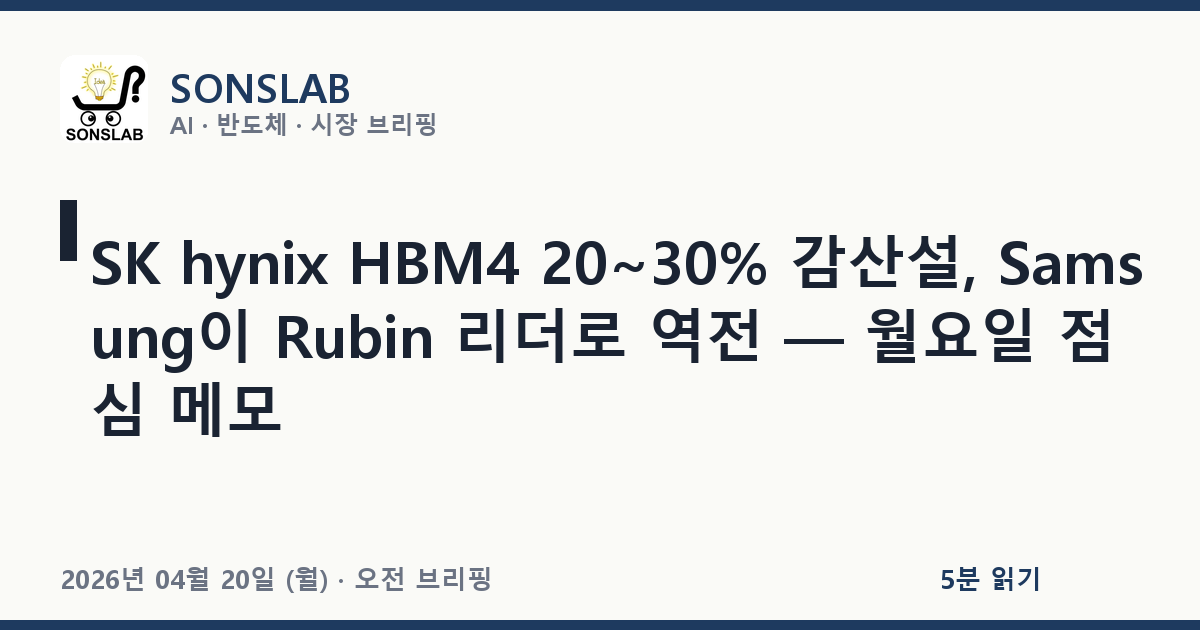
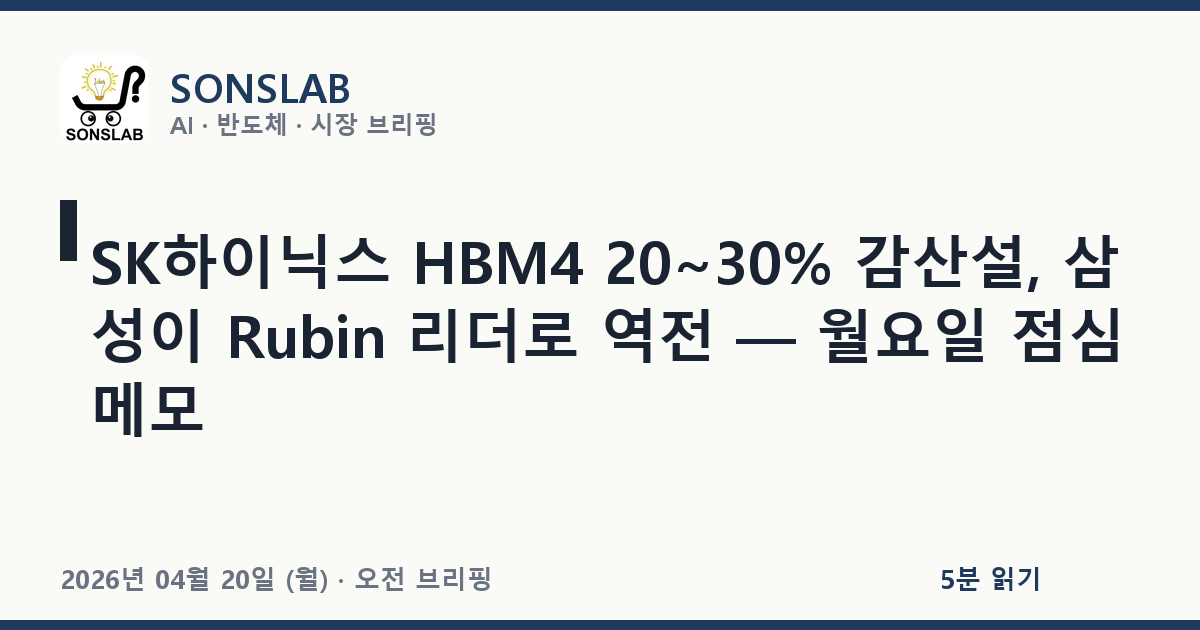
Update: 2026-04-20 18:41

Changed region(s): [[0.0617, 0.3619, 0.9558, 0.6937]]

diff --git a/posts/2026-04-20-pm12-ai-tech-news.html b/posts/2026-04-20-pm12-ai-tech-news.html
@@ -3,7 +3,7 @@
 <head>
     <meta charset="UTF-8">
     <meta name="viewport" content="width=device-width, initial-scale=1.0">
-    <title>SK hynix HBM4 20~30% 감산설, Samsung이 Rubin 리더로 역전 — 월요일 점심 메모 — SONSLAB</title>
+    <title>SK하이닉스 HBM4 20~30% 감산설, 삼성이 Rubin 리더로 역전 — 월요일 점심 메모 — SONSLAB</title>
     <link rel="icon" href="../assets/logo.jpg">
     <link rel="alternate" type="application/atom+xml" title="SONSLAB Feed" href="../feed.xml">
     <link rel="preconnect" href="https://fonts.googleapis.com">
@@ -11,19 +11,19 @@
     <link href="https://cdn.jsdelivr.net/gh/orioncactus/pretendard@v1.3.9/dist/web/variable/pretendardvariable-dynamic-subset.min.css" rel="stylesheet">
     <link href="https://fonts.googleapis.com/css2?family=Noto+Serif+KR:wght@400;500;600;700;900&family=Source+Serif+4:ital,wght@0,400;0,600;0,700;1,400&display=swap" rel="stylesheet">
     <link rel="stylesheet" href="../assets/style.css">
-    <meta name="description" content="점심 먹고 자리로 들어왔다. 오전에 새벽 포스트로 Sandisk Nasdaq-100 편입이랑 Tesla 수요일 콜 Terafab 각도를 짚어둔 상태라, 여기서는 오늘 오전 KOSPI에서도 종일 얘기 도는 메모리 공급망 재편 쪽 한 줄기만 정리해두고 간다.">
+    <meta name="description" content="점심 먹고 자리로 들어왔다. 오전에 새벽 포스트로 샌디스크 나스닥-100 편입이랑 테슬라 수요일 콜 Terafab 각도를 짚어둔 상태라, 여기서는 오늘 오전 KOSPI에서도 종일 얘기 도는 메모리 공급망 재편 쪽 한 줄기만 정리해두고 간다.">
     <meta name="author" content="SONSLAB">
     <link rel="canonical" href="https://shonsubong.github.io/sonslab-blog/posts/2026-04-20-pm12-ai-tech-news.html">
     <meta property="og:site_name" content="SONSLAB">
     <meta property="og:type" content="article">
-    <meta property="og:title" content="SK hynix HBM4 20~30% 감산설, Samsung이 Rubin 리더로 역전 — 월요일 점심 메모">
-    <meta property="og:description" content="점심 먹고 자리로 들어왔다. 오전에 새벽 포스트로 Sandisk Nasdaq-100 편입이랑 Tesla 수요일 콜 Terafab 각도를 짚어둔 상태라, 여기서는 오늘 오전 KOSPI에서도 종일 얘기 도는 메모리 공급망 재편 쪽 한 줄기만 정리해두고 간다.">
+    <meta property="og:title" content="SK하이닉스 HBM4 20~30% 감산설, 삼성이 Rubin 리더로 역전 — 월요일 점심 메모">
+    <meta property="og:description" content="점심 먹고 자리로 들어왔다. 오전에 새벽 포스트로 샌디스크 나스닥-100 편입이랑 테슬라 수요일 콜 Terafab 각도를 짚어둔 상태라, 여기서는 오늘 오전 KOSPI에서도 종일 얘기 도는 메모리 공급망 재편 쪽 한 줄기만 정리해두고 간다.">
     <meta property="og:url" content="https://shonsubong.github.io/sonslab-blog/posts/2026-04-20-pm12-ai-tech-news.html">
     <meta property="og:image" content="https://shonsubong.github.io/sonslab-blog/assets/og/2026-04-20-pm12-ai-tech-news.png">
     <meta property="og:locale" content="ko_KR">
     <meta name="twitter:card" content="summary_large_image">
-    <meta name="twitter:title" content="SK hynix HBM4 20~30% 감산설, Samsung이 Rubin 리더로 역전 — 월요일 점심 메모">
-    <meta name="twitter:description" content="점심 먹고 자리로 들어왔다. 오전에 새벽 포스트로 Sandisk Nasdaq-100 편입이랑 Tesla 수요일 콜 Terafab 각도를 짚어둔 상태라, 여기서는 오늘 오전 KOSPI에서도 종일 얘기 도는 메모리 공급망 재편 쪽 한 줄기만 정리해두고 간다.">
+    <meta name="twitter:title" content="SK하이닉스 HBM4 20~30% 감산설, 삼성이 Rubin 리더로 역전 — 월요일 점심 메모">
+    <meta name="twitter:description" content="점심 먹고 자리로 들어왔다. 오전에 새벽 포스트로 샌디스크 나스닥-100 편입이랑 테슬라 수요일 콜 Terafab 각도를 짚어둔 상태라, 여기서는 오늘 오전 KOSPI에서도 종일 얘기 도는 메모리 공급망 재편 쪽 한 줄기만 정리해두고 간다.">
     <meta name="twitter:image" content="https://shonsubong.github.io/sonslab-blog/assets/og/2026-04-20-pm12-ai-tech-news.png">
     <meta property="article:published_time" content="2026-04-20T12:18:00+09:00">
     <meta property="article:modified_time" content="2026-04-20T12:18:00+09:00">
@@ -56,8 +56,8 @@
     } catch (e) {}
 })();
 </script>
-    <script type="application/ld+json">{"@context": "https://schema.org", "@type": "BlogPosting", "headline": "SK hynix HBM4 20~30% 감산설, Samsung이 Rubin 리더로 역전 — 월요일 점심 메모", "description": "점심 먹고 자리로 들어왔다. 오전에 새벽 포스트로 Sandisk Nasdaq-100 편입이랑 Tesla 수요일 콜 Terafab 각도를 짚어둔 상태라, 여기서는 오늘 오전 KOSPI에서도 종일 얘기 도는 메모리 공급망 재편 쪽 한 줄기만 정리해두고 간다.", "url": "https://shonsubong.github.io/sonslab-blog/posts/2026-04-20-pm12-ai-tech-news.html", "mainEntityOfPage": "https://shonsubong.github.io/sonslab-blog/posts/2026-04-20-pm12-ai-tech-news.html", "inLanguage": "ko", "image": "https://shonsubong.github.io/sonslab-blog/assets/og/2026-04-20-pm12-ai-tech-news.png", "author": {"@type": "Person", "name": "SONSLAB"}, "publisher": {"@type": "Organization", "name": "SONSLAB", "logo": {"@type": "ImageObject", "url": "https://shonsubong.github.io/sonslab-blog/assets/logo.jpg"}}, "datePublished": "2026-04-20T12:18:00+09:00", "dateModified": "2026-04-20T12:18:00+09:00"}</script>
-    <script type="application/ld+json">{"@context": "https://schema.org", "@type": "BreadcrumbList", "itemListElement": [{"@type": "ListItem", "position": 1, "name": "SONSLAB", "item": "https://shonsubong.github.io/sonslab-blog/"}, {"@type": "ListItem", "position": 2, "name": "글", "item": "https://shonsubong.github.io/sonslab-blog/#posts"}, {"@type": "ListItem", "position": 3, "name": "SK hynix HBM4 20~30% 감산설, Samsung이 Rubin 리더로 역전 — 월요일 점심 메모", "item": "https://shonsubong.github.io/sonslab-blog/posts/2026-04-20-pm12-ai-tech-news.html"}]}</script>
+    <script type="application/ld+json">{"@context": "https://schema.org", "@type": "BlogPosting", "headline": "SK하이닉스 HBM4 20~30% 감산설, 삼성이 Rubin 리더로 역전 — 월요일 점심 메모", "description": "점심 먹고 자리로 들어왔다. 오전에 새벽 포스트로 샌디스크 나스닥-100 편입이랑 테슬라 수요일 콜 Terafab 각도를 짚어둔 상태라, 여기서는 오늘 오전 KOSPI에서도 종일 얘기 도는 메모리 공급망 재편 쪽 한 줄기만 정리해두고 간다.", "url": "https://shonsubong.github.io/sonslab-blog/posts/2026-04-20-pm12-ai-tech-news.html", "mainEntityOfPage": "https://shonsubong.github.io/sonslab-blog/posts/2026-04-20-pm12-ai-tech-news.html", "inLanguage": "ko", "image": "https://shonsubong.github.io/sonslab-blog/assets/og/2026-04-20-pm12-ai-tech-news.png", "author": {"@type": "Person", "name": "SONSLAB"}, "publisher": {"@type": "Organization", "name": "SONSLAB", "logo": {"@type": "ImageObject", "url": "https://shonsubong.github.io/sonslab-blog/assets/logo.jpg"}}, "datePublished": "2026-04-20T12:18:00+09:00", "dateModified": "2026-04-20T12:18:00+09:00"}</script>
+    <script type="application/ld+json">{"@context": "https://schema.org", "@type": "BreadcrumbList", "itemListElement": [{"@type": "ListItem", "position": 1, "name": "SONSLAB", "item": "https://shonsubong.github.io/sonslab-blog/"}, {"@type": "ListItem", "position": 2, "name": "글", "item": "https://shonsubong.github.io/sonslab-blog/#posts"}, {"@type": "ListItem", "position": 3, "name": "SK하이닉스 HBM4 20~30% 감산설, 삼성이 Rubin 리더로 역전 — 월요일 점심 메모", "item": "https://shonsubong.github.io/sonslab-blog/posts/2026-04-20-pm12-ai-tech-news.html"}]}</script>
 </head>
 <body class="post-page">
     <div class="reading-progress" id="reading-progress" role="progressbar" aria-label="읽기 진행률"></div>
@@ -101,7 +101,7 @@
 <article class="post-article">
     <div class="post-header">
         <a href="../index.html" class="back-link">← 전체 글 목록</a>
-        <h1>SK hynix HBM4 20~30% 감산설, Samsung이 Rubin 리더로 역전 — 월요일 점심 메모</h1>
+        <h1>SK하이닉스 HBM4 20~30% 감산설, 삼성이 Rubin 리더로 역전 — 월요일 점심 메모</h1>
         <div class="post-meta">
             <span class="time-label">오전 브리핑</span>
             <span>2026년 04월 20일 (월) · 12:18</span>
@@ -117,8 +117,8 @@
     <details class="post-toc" open><summary>목차</summary><div class="toc">
 <div class="toc">
 <ul>
-<li><a href="#sk-hynix-hbm4-2030-samsung-rubin">SK hynix HBM4 20~30% 감산설, Samsung이 Rubin 리더로 역전 — 월요일 점심 메모</a><ul>
-<li><a href="#sk-hynix-hbm4-2030-samsung">SK hynix가 HBM4 샤핑을 20~30% 줄인다는 얘기, 그리고 Samsung의 반전</a></li>
+<li><a href="#sk-hbm4-2030-rubin">SK하이닉스 HBM4 20~30% 감산설, 삼성이 Rubin 리더로 역전 — 월요일 점심 메모</a><ul>
+<li><a href="#sk-hbm4-2030">SK하이닉스가 HBM4 출하를 20~30% 줄인다는 얘기, 그리고 삼성의 반전</a></li>
 </ul>
 </li>
 </ul>
@@ -127,13 +127,13 @@
 </div>
 </details>
     <div class="post-content">
-<h1 id="sk-hynix-hbm4-2030-samsung-rubin">SK hynix HBM4 20~30% 감산설, Samsung이 Rubin 리더로 역전 — 월요일 점심 메모</h1>
-<p>점심 먹고 자리로 들어왔다. 오전에 새벽 포스트로 Sandisk Nasdaq-100 편입이랑 Tesla 수요일 콜 Terafab 각도를 짚어둔 상태라, 여기서는 오늘 오전 KOSPI에서도 종일 얘기 도는 <strong>메모리 공급망 재편</strong> 쪽 한 줄기만 정리해두고 간다.</p>
+<h1 id="sk-hbm4-2030-rubin">SK하이닉스 HBM4 20~30% 감산설, 삼성이 Rubin 리더로 역전 — 월요일 점심 메모</h1>
+<p>점심 먹고 자리로 들어왔다. 오전에 새벽 포스트로 샌디스크 나스닥-100 편입이랑 테슬라 수요일 콜 Terafab 각도를 짚어둔 상태라, 여기서는 오늘 오전 KOSPI에서도 종일 얘기 도는 <strong>메모리 공급망 재편</strong> 쪽 한 줄기만 정리해두고 간다.</p>
 <hr />
-<h2 id="sk-hynix-hbm4-2030-samsung">SK hynix가 HBM4 샤핑을 20~30% 줄인다는 얘기, 그리고 Samsung의 반전</h2>
+<h2 id="sk-hbm4-2030">SK하이닉스가 HBM4 출하를 20~30% 줄인다는 얘기, 그리고 삼성의 반전</h2>
 <p>지난주(4/15) <a href="https://www.trendforce.com/news/2026/04/15/news-hbm4-strategies-diverge-samsung-reportedly-chases-80-1c-dram-yield-while-sk-hynix-trims-shipments-by-30/">TrendForce 리포트</a>와 뒤이은 <a href="https://www.digitimes.com/news/a20260415VL210/sk-hynix-hbm4-shipments-nvidia-rubin.html">Digitimes 보도</a>가 한 덩어리로 붙어서 돈다. 핵심은 두 가지:</p>
 <ol>
-<li><strong>SK hynix가 2026년 HBM4 대(對) Nvidia 출하 계획을 20~30% 하향 검토 중</strong> — 이유는 Nvidia <strong>Rubin</strong> 램프 지연. SK hynix가 HBM4 base die를 리스핀(respin)해야 했다는 게 <a href="https://www.sdxcentral.com/news/sk-hynix-memory-production-delay-impact-could-impact-nvidia-rubin-release-report/">SDxCentral</a> 정리의 톤이고, 원 스케줄이었다면 SK hynix가 Rubin 초도 공급 리드 포지션이었는데 그 자리가 흔들리고 있다는 거다.</li>
+<li><strong>SK하이닉스가 2026년 HBM4 대(對) Nvidia 출하 계획을 20~30% 하향 검토 중</strong> — 이유는 Nvidia <strong>Rubin</strong> 램프 지연. SK하이닉스가 HBM4 base die를 리스핀(respin)해야 했다는 게 <a href="https://www.sdxcentral.com/news/sk-hynix-memory-production-delay-impact-could-impact-nvidia-rubin-release-report/">SDxCentral</a> 정리의 톤이고, 원 스케줄이었다면 SK하이닉스가 Rubin 초도 공급 리드 포지션이었는데 그 자리가 흔들리고 있다는 거다.</li>
 <li><strong>Samsung이 1c DRAM 수율 80% 목표로 Rubin 공급 리더 역전을 노린다</strong> — Samsung은 HBM4용 1c DRAM 수율이 60% 이하로 추정되는 상태에서 하반기 안에 근(near)-성숙 수준까지 끌어올리겠다는 목표를 잡고 있다. Samsung이 HBM4 로직 다이 가격을 연초 대비 40~50% 올렸다는 얘기도 같이 도는데(역시 TrendForce), 이건 "공급 쪽에서 가격 주도권을 다시 잡았다"는 신호로 본다.</li>
 </ol>
 <p>모든 "~한다더라" 숫자는 아직 공식 IR 발표가 아니고 리포트·업계 소스 기반이니 확정은 아니다. 다만 이번 주 수요일(4/23) SK hynix Q1 어닝 콜이 잡혀 있어서 — <a href="https://finance.yahoo.com/quote/000660.KS/">Yahoo Finance 기록</a> 기준 — 적어도 CapEx 톤이랑 HBM 가이던스 문장에서 이 이야기의 실제 각도가 얼마나 드러나는지 짚어볼 수 있다. Nvidia 쪽은 <a href="https://www.tomshardware.com/tech-industry/hbm4-mass-production-delayed-as-nvidia-pushes-memory-specs-higher">Tom's Hardware 정리</a>에서 이미 "Rubin 연기 주장은 사실이 아니다"라고 공개적으로 반박 중이라, 같은 사실을 놓고 공급망 A/B 사이드 진술이 정반대로 갈리는 진풍경이 벌어지고 있다.</p>
@@ -146,7 +146,7 @@
     
 <div class="post-share">
     <span class="share-label">공유하기</span>
-    <a href="https://twitter.com/intent/tweet?text=SK hynix HBM4 20~30% 감산설, Samsung이 Rubin 리더로 역전 — 월요일 점심 메모&url=https://shonsubong.github.io/sonslab-blog/posts/2026-04-20-pm12-ai-tech-news.html"
+    <a href="https://twitter.com/intent/tweet?text=SK하이닉스 HBM4 20~30% 감산설, 삼성이 Rubin 리더로 역전 — 월요일 점심 메모&url=https://shonsubong.github.io/sonslab-blog/posts/2026-04-20-pm12-ai-tech-news.html"
        class="share-btn" target="_blank" rel="noopener" aria-label="X(Twitter)에 공유">
         <span>X</span>
     </a>

diff --git a/index.html b/index.html
@@ -162,7 +162,7 @@
                 <tr class="live">
                     <td class="td-time">12:18</td>
                     <td class="td-kind">오전 브리핑</td>
-                    <td class="td-title"><a href="posts/2026-04-20-pm12-ai-tech-news.html">SK hynix HBM4 20~30% 감산설, Samsung이 Rubin 리더로 역전 — 월요일 점심 메모</a></td>
+                    <td class="td-title"><a href="posts/2026-04-20-pm12-ai-tech-news.html">SK하이닉스 HBM4 20~30% 감산설, 삼성이 Rubin 리더로 역전 — 월요일 점심 메모</a></td>
                     <td class="td-read">5분</td>
                 </tr>
                 <tr class="live">
@@ -199,7 +199,7 @@
             
         <article class="hero-lede is-sub" data-only="editorial">
             <div class="lede-kind">오전 브리핑</div>
-            <h1 class="lede-title"><a href="posts/2026-04-20-pm12-ai-tech-news.html">SK hynix HBM4 20~30% 감산설, Samsung이 Rubin 리더로 역전</a></h1>
+            <h1 class="lede-title"><a href="posts/2026-04-20-pm12-ai-tech-news.html">SK하이닉스 HBM4 20~30% 감산설, 삼성이 Rubin 리더로 역전</a></h1>
             <div class="lede-dek">월요일 점심 메모</div>
             
             <div class="lede-byline">
@@ -227,7 +227,7 @@
                 <div class="side-hour">12</div>
                 <div class="side-body">
                     <div class="side-kind">오전</div>
-                    <div class="side-title"><a href="posts/2026-04-20-pm12-ai-tech-news.html">SK hynix HBM4 20~30% 감산설, Samsung이 Rubin 리더로 역전 — 월요일 점심 메모</a></div>
+                    <div class="side-title"><a href="posts/2026-04-20-pm12-ai-tech-news.html">SK하이닉스 HBM4 20~30% 감산설, 삼성이 Rubin 리더로 역전 — 월요일 점심 메모</a></div>
                 </div>
             </div>
             <div class="side-today-row">
@@ -306,7 +306,7 @@
                     <div class="sched-kind">오전 브리핑</div>
                 </div>
                 <div class="sched-body">
-                    <div class="sched-title"><a href="posts/2026-04-20-pm12-ai-tech-news.html">SK hynix HBM4 20~30% 감산설, Samsung이 Rubin 리더로 역전 — 월요일 점심 메모</a></div>
+                    <div class="sched-title"><a href="posts/2026-04-20-pm12-ai-tech-news.html">SK하이닉스 HBM4 20~30% 감산설, 삼성이 Rubin 리더로 역전 — 월요일 점심 메모</a></div>
                     <div class="sched-status">● 발행됨 · 5분</div>
                 </div>
             </div>
@@ -420,15 +420,15 @@
             <p class="lead">퇴근 준비하면서 화면 한 번 정리한다. 오늘 점심에 쓴 건 SK hynix HBM4 샤핑 조정·Samsung 1c DRAM 수율 서사였고, 새벽에는 Sandisk Nasdaq-100 편입이랑 Tesla 수요일 콜의 Terafab 각도를 짚어뒀다. 오후 들어서 판이 다시 한 번 변수 하나 집어삼켰다 — Hormuz 재봉쇄가 풀릴 듯 다시 조여들면서 유가가 올라왔고, 아시아장 내내 이 변수가 깔...</p>
             <a href="posts/2026-04-20-pm17-ai-tech-news.html" class="read-more">계속 읽기 →</a>
         </article>
-        <article class="post-item" data-time="오전 브리핑" data-topics="반도체|AI 모델|빅테크/시장" data-search="sk hynix hbm4 20~30% 감산설, samsung이 rubin 리더로 역전 — 월요일 점심 메모 점심 먹고 자리로 들어왔다. 오전에 새벽 포스트로 sandisk nasdaq-100 편입이랑 tesla 수요일 콜 terafab 각도를 짚어둔 상태라, 여기서는 오늘 오전 kospi에서도 종일 얘기 도는 메모리 공급망 재편 쪽 한 줄기만 정리해두고 간다. 반도체 ai 모델 빅테크/시장">
+        <article class="post-item" data-time="오전 브리핑" data-topics="반도체|AI 모델|빅테크/시장" data-search="sk하이닉스 hbm4 20~30% 감산설, 삼성이 rubin 리더로 역전 — 월요일 점심 메모 점심 먹고 자리로 들어왔다. 오전에 새벽 포스트로 샌디스크 나스닥-100 편입이랑 테슬라 수요일 콜 terafab 각도를 짚어둔 상태라, 여기서는 오늘 오전 kospi에서도 종일 얘기 도는 메모리 공급망 재편 쪽 한 줄기만 정리해두고 간다. 반도체 ai 모델 빅테크/시장">
             <div class="post-meta">
                 <span class="time-label">오전 브리핑</span>
                 <span>·</span>
                 <time>12:18</time><span>·</span>
                 <span>5분 읽기</span>
             </div>
-            <h2><a href="posts/2026-04-20-pm12-ai-tech-news.html">SK hynix HBM4 20~30% 감산설, Samsung이 Rubin 리더로 역전 — 월요일 점심 메모</a></h2>
-            <p class="lead">점심 먹고 자리로 들어왔다. 오전에 새벽 포스트로 Sandisk Nasdaq-100 편입이랑 Tesla 수요일 콜 Terafab 각도를 짚어둔 상태라, 여기서는 오늘 오전 KOSPI에서도 종일 얘기 도는 메모리 공급망 재편 쪽 한 줄기만 정리해두고 간다.</p>
+            <h2><a href="posts/2026-04-20-pm12-ai-tech-news.html">SK하이닉스 HBM4 20~30% 감산설, 삼성이 Rubin 리더로 역전 — 월요일 점심 메모</a></h2>
+            <p class="lead">점심 먹고 자리로 들어왔다. 오전에 새벽 포스트로 샌디스크 나스닥-100 편입이랑 테슬라 수요일 콜 Terafab 각도를 짚어둔 상태라, 여기서는 오늘 오전 KOSPI에서도 종일 얘기 도는 메모리 공급망 재편 쪽 한 줄기만 정리해두고 간다.</p>
             <a href="posts/2026-04-20-pm12-ai-tech-news.html" class="read-more">계속 읽기 →</a>
         </article>
         <article class="post-item" data-time="새벽 리포트" data-topics="반도체|빅테크/시장|투자/매크로" data-search="샌디스크 나스닥-100 입성(4/20)·1년 +2,700%, 테슬라 terafab이 콜의 진짜 초점 — 월요일 새벽 메모 월요일 새벽, 미국장은 이따 열린다. 주말 내내 쓰인 얘기들을 월요일 아침에 다시 꺼내는 건 피하고 싶어서, 오늘 장 열리기 전까지 오늘 실제로 새로 벌어지는 일 두 개만 짚고 출근 준비한다. 반도체 빅테크/시장 투자/매크로">

diff --git a/posts/COWORK_AUTOBUILD_SETUP.html b/posts/COWORK_AUTOBUILD_SETUP.html
@@ -525,7 +525,7 @@ powershell -NoProfile -ExecutionPolicy Bypass -File &quot;X:\Work_Agent\sonslab-
     
 <section class="related-posts" aria-label="최근 다른 리포트">
     <div class="related-posts-label">최근 다른 리포트</div>
-    <ul class="related-list"><li><a href="2026-04-20-pm17-ai-tech-news.html"><span class="related-title">Hormuz 재봉쇄로 Brent $95·WTI $87, 이번 주 Tesla(4/22)·SK hynix·Intel(4/23) 삼중 콜 — 월요일 오후 메모</span><span class="related-date">2026-04-20 · 오후 브리핑 · 17:16</span></a></li><li><a href="2026-04-20-pm12-ai-tech-news.html"><span class="related-title">SK hynix HBM4 20~30% 감산설, Samsung이 Rubin 리더로 역전 — 월요일 점심 메모</span><span class="related-date">2026-04-20 · 오전 브리핑 · 12:18</span></a></li><li><a href="2026-04-20-am06-ai-tech-news.html"><span class="related-title">샌디스크 나스닥-100 입성(4/20)·1년 +2,700%, 테슬라 Terafab이 콜의 진짜 초점 — 월요일 새벽 메모</span><span class="related-date">2026-04-20 · 새벽 리포트 · 06:12</span></a></li><li><a href="2026-04-19-pm22-ai-tech-news.html"><span class="related-title">Opus 4.7 벤치 정리, 알리바바 자체 칩 1만 개 데이터센터 — 주말 마감 메모</span><span class="related-date">2026-04-19 · 저녁 마감 · 22:18</span></a></li><li><a href="2026-04-19-pm17-ai-tech-news.html"><span class="related-title">테슬라 실적 3일 전 — 로보택시 3개 도시, 옵티머스 3세대 지연 속 전망</span><span class="related-date">2026-04-19 · 오후 브리핑 · 17:14</span></a></li></ul>
+    <ul class="related-list"><li><a href="2026-04-20-pm17-ai-tech-news.html"><span class="related-title">Hormuz 재봉쇄로 Brent $95·WTI $87, 이번 주 Tesla(4/22)·SK hynix·Intel(4/23) 삼중 콜 — 월요일 오후 메모</span><span class="related-date">2026-04-20 · 오후 브리핑 · 17:16</span></a></li><li><a href="2026-04-20-pm12-ai-tech-news.html"><span class="related-title">SK하이닉스 HBM4 20~30% 감산설, 삼성이 Rubin 리더로 역전 — 월요일 점심 메모</span><span class="related-date">2026-04-20 · 오전 브리핑 · 12:18</span></a></li><li><a href="2026-04-20-am06-ai-tech-news.html"><span class="related-title">샌디스크 나스닥-100 입성(4/20)·1년 +2,700%, 테슬라 Terafab이 콜의 진짜 초점 — 월요일 새벽 메모</span><span class="related-date">2026-04-20 · 새벽 리포트 · 06:12</span></a></li><li><a href="2026-04-19-pm22-ai-tech-news.html"><span class="related-title">Opus 4.7 벤치 정리, 알리바바 자체 칩 1만 개 데이터센터 — 주말 마감 메모</span><span class="related-date">2026-04-19 · 저녁 마감 · 22:18</span></a></li><li><a href="2026-04-19-pm17-ai-tech-news.html"><span class="related-title">테슬라 실적 3일 전 — 로보택시 3개 도시, 옵티머스 3세대 지연 속 전망</span><span class="related-date">2026-04-19 · 오후 브리핑 · 17:14</span></a></li></ul>
 </section>
 </article>
 

diff --git a/posts/2025-12-01-pm21-ai-tech-news.html b/posts/2025-12-01-pm21-ai-tech-news.html
@@ -198,7 +198,7 @@
     
 <section class="related-posts" aria-label="최근 다른 리포트">
     <div class="related-posts-label">최근 다른 리포트</div>
-    <ul class="related-list"><li><a href="2026-04-20-pm17-ai-tech-news.html"><span class="related-title">Hormuz 재봉쇄로 Brent $95·WTI $87, 이번 주 Tesla(4/22)·SK hynix·Intel(4/23) 삼중 콜 — 월요일 오후 메모</span><span class="related-date">2026-04-20 · 오후 브리핑 · 17:16</span></a></li><li><a href="2026-04-20-pm12-ai-tech-news.html"><span class="related-title">SK hynix HBM4 20~30% 감산설, Samsung이 Rubin 리더로 역전 — 월요일 점심 메모</span><span class="related-date">2026-04-20 · 오전 브리핑 · 12:18</span></a></li><li><a href="2026-04-20-am06-ai-tech-news.html"><span class="related-title">샌디스크 나스닥-100 입성(4/20)·1년 +2,700%, 테슬라 Terafab이 콜의 진짜 초점 — 월요일 새벽 메모</span><span class="related-date">2026-04-20 · 새벽 리포트 · 06:12</span></a></li><li><a href="2026-04-19-pm22-ai-tech-news.html"><span class="related-title">Opus 4.7 벤치 정리, 알리바바 자체 칩 1만 개 데이터센터 — 주말 마감 메모</span><span class="related-date">2026-04-19 · 저녁 마감 · 22:18</span></a></li><li><a href="2026-04-19-pm17-ai-tech-news.html"><span class="related-title">테슬라 실적 3일 전 — 로보택시 3개 도시, 옵티머스 3세대 지연 속 전망</span><span class="related-date">2026-04-19 · 오후 브리핑 · 17:14</span></a></li></ul>
+    <ul class="related-list"><li><a href="2026-04-20-pm17-ai-tech-news.html"><span class="related-title">Hormuz 재봉쇄로 Brent $95·WTI $87, 이번 주 Tesla(4/22)·SK hynix·Intel(4/23) 삼중 콜 — 월요일 오후 메모</span><span class="related-date">2026-04-20 · 오후 브리핑 · 17:16</span></a></li><li><a href="2026-04-20-pm12-ai-tech-news.html"><span class="related-title">SK하이닉스 HBM4 20~30% 감산설, 삼성이 Rubin 리더로 역전 — 월요일 점심 메모</span><span class="related-date">2026-04-20 · 오전 브리핑 · 12:18</span></a></li><li><a href="2026-04-20-am06-ai-tech-news.html"><span class="related-title">샌디스크 나스닥-100 입성(4/20)·1년 +2,700%, 테슬라 Terafab이 콜의 진짜 초점 — 월요일 새벽 메모</span><span class="related-date">2026-04-20 · 새벽 리포트 · 06:12</span></a></li><li><a href="2026-04-19-pm22-ai-tech-news.html"><span class="related-title">Opus 4.7 벤치 정리, 알리바바 자체 칩 1만 개 데이터센터 — 주말 마감 메모</span><span class="related-date">2026-04-19 · 저녁 마감 · 22:18</span></a></li><li><a href="2026-04-19-pm17-ai-tech-news.html"><span class="related-title">테슬라 실적 3일 전 — 로보택시 3개 도시, 옵티머스 3세대 지연 속 전망</span><span class="related-date">2026-04-19 · 오후 브리핑 · 17:14</span></a></li></ul>
 </section>
 </article>
 

diff --git a/posts/2025-12-06-pm21-ai-tech-news.html b/posts/2025-12-06-pm21-ai-tech-news.html
@@ -173,7 +173,7 @@
     
 <section class="related-posts" aria-label="최근 다른 리포트">
     <div class="related-posts-label">최근 다른 리포트</div>
-    <ul class="related-list"><li><a href="2026-04-20-pm17-ai-tech-news.html"><span class="related-title">Hormuz 재봉쇄로 Brent $95·WTI $87, 이번 주 Tesla(4/22)·SK hynix·Intel(4/23) 삼중 콜 — 월요일 오후 메모</span><span class="related-date">2026-04-20 · 오후 브리핑 · 17:16</span></a></li><li><a href="2026-04-20-pm12-ai-tech-news.html"><span class="related-title">SK hynix HBM4 20~30% 감산설, Samsung이 Rubin 리더로 역전 — 월요일 점심 메모</span><span class="related-date">2026-04-20 · 오전 브리핑 · 12:18</span></a></li><li><a href="2026-04-20-am06-ai-tech-news.html"><span class="related-title">샌디스크 나스닥-100 입성(4/20)·1년 +2,700%, 테슬라 Terafab이 콜의 진짜 초점 — 월요일 새벽 메모</span><span class="related-date">2026-04-20 · 새벽 리포트 · 06:12</span></a></li><li><a href="2026-04-19-pm22-ai-tech-news.html"><span class="related-title">Opus 4.7 벤치 정리, 알리바바 자체 칩 1만 개 데이터센터 — 주말 마감 메모</span><span class="related-date">2026-04-19 · 저녁 마감 · 22:18</span></a></li><li><a href="2026-04-19-pm17-ai-tech-news.html"><span class="related-title">테슬라 실적 3일 전 — 로보택시 3개 도시, 옵티머스 3세대 지연 속 전망</span><span class="related-date">2026-04-19 · 오후 브리핑 · 17:14</span></a></li></ul>
+    <ul class="related-list"><li><a href="2026-04-20-pm17-ai-tech-news.html"><span class="related-title">Hormuz 재봉쇄로 Brent $95·WTI $87, 이번 주 Tesla(4/22)·SK hynix·Intel(4/23) 삼중 콜 — 월요일 오후 메모</span><span class="related-date">2026-04-20 · 오후 브리핑 · 17:16</span></a></li><li><a href="2026-04-20-pm12-ai-tech-news.html"><span class="related-title">SK하이닉스 HBM4 20~30% 감산설, 삼성이 Rubin 리더로 역전 — 월요일 점심 메모</span><span class="related-date">2026-04-20 · 오전 브리핑 · 12:18</span></a></li><li><a href="2026-04-20-am06-ai-tech-news.html"><span class="related-title">샌디스크 나스닥-100 입성(4/20)·1년 +2,700%, 테슬라 Terafab이 콜의 진짜 초점 — 월요일 새벽 메모</span><span class="related-date">2026-04-20 · 새벽 리포트 · 06:12</span></a></li><li><a href="2026-04-19-pm22-ai-tech-news.html"><span class="related-title">Opus 4.7 벤치 정리, 알리바바 자체 칩 1만 개 데이터센터 — 주말 마감 메모</span><span class="related-date">2026-04-19 · 저녁 마감 · 22:18</span></a></li><li><a href="2026-04-19-pm17-ai-tech-news.html"><span class="related-title">테슬라 실적 3일 전 — 로보택시 3개 도시, 옵티머스 3세대 지연 속 전망</span><span class="related-date">2026-04-19 · 오후 브리핑 · 17:14</span></a></li></ul>
 </section>
 </article>
 

diff --git a/posts/2025-12-09-pm22-ai-tech-news.html b/posts/2025-12-09-pm22-ai-tech-news.html
@@ -197,7 +197,7 @@
     
 <section class="related-posts" aria-label="최근 다른 리포트">
     <div class="related-posts-label">최근 다른 리포트</div>
-    <ul class="related-list"><li><a href="2026-04-20-pm17-ai-tech-news.html"><span class="related-title">Hormuz 재봉쇄로 Brent $95·WTI $87, 이번 주 Tesla(4/22)·SK hynix·Intel(4/23) 삼중 콜 — 월요일 오후 메모</span><span class="related-date">2026-04-20 · 오후 브리핑 · 17:16</span></a></li><li><a href="2026-04-20-pm12-ai-tech-news.html"><span class="related-title">SK hynix HBM4 20~30% 감산설, Samsung이 Rubin 리더로 역전 — 월요일 점심 메모</span><span class="related-date">2026-04-20 · 오전 브리핑 · 12:18</span></a></li><li><a href="2026-04-20-am06-ai-tech-news.html"><span class="related-title">샌디스크 나스닥-100 입성(4/20)·1년 +2,700%, 테슬라 Terafab이 콜의 진짜 초점 — 월요일 새벽 메모</span><span class="related-date">2026-04-20 · 새벽 리포트 · 06:12</span></a></li><li><a href="2026-04-19-pm22-ai-tech-news.html"><span class="related-title">Opus 4.7 벤치 정리, 알리바바 자체 칩 1만 개 데이터센터 — 주말 마감 메모</span><span class="related-date">2026-04-19 · 저녁 마감 · 22:18</span></a></li><li><a href="2026-04-19-pm17-ai-tech-news.html"><span class="related-title">테슬라 실적 3일 전 — 로보택시 3개 도시, 옵티머스 3세대 지연 속 전망</span><span class="related-date">2026-04-19 · 오후 브리핑 · 17:14</span></a></li></ul>
+    <ul class="related-list"><li><a href="2026-04-20-pm17-ai-tech-news.html"><span class="related-title">Hormuz 재봉쇄로 Brent $95·WTI $87, 이번 주 Tesla(4/22)·SK hynix·Intel(4/23) 삼중 콜 — 월요일 오후 메모</span><span class="related-date">2026-04-20 · 오후 브리핑 · 17:16</span></a></li><li><a href="2026-04-20-pm12-ai-tech-news.html"><span class="related-title">SK하이닉스 HBM4 20~30% 감산설, 삼성이 Rubin 리더로 역전 — 월요일 점심 메모</span><span class="related-date">2026-04-20 · 오전 브리핑 · 12:18</span></a></li><li><a href="2026-04-20-am06-ai-tech-news.html"><span class="related-title">샌디스크 나스닥-100 입성(4/20)·1년 +2,700%, 테슬라 Terafab이 콜의 진짜 초점 — 월요일 새벽 메모</span><span class="related-date">2026-04-20 · 새벽 리포트 · 06:12</span></a></li><li><a href="2026-04-19-pm22-ai-tech-news.html"><span class="related-title">Opus 4.7 벤치 정리, 알리바바 자체 칩 1만 개 데이터센터 — 주말 마감 메모</span><span class="related-date">2026-04-19 · 저녁 마감 · 22:18</span></a></li><li><a href="2026-04-19-pm17-ai-tech-news.html"><span class="related-title">테슬라 실적 3일 전 — 로보택시 3개 도시, 옵티머스 3세대 지연 속 전망</span><span class="related-date">2026-04-19 · 오후 브리핑 · 17:14</span></a></li></ul>
 </section>
 </article>
 

diff --git a/posts/2025-12-13-pm22-ai-tech-news.html b/posts/2025-12-13-pm22-ai-tech-news.html
@@ -228,7 +228,7 @@
     
 <section class="related-posts" aria-label="최근 다른 리포트">
     <div class="related-posts-label">최근 다른 리포트</div>
-    <ul class="related-list"><li><a href="2026-04-20-pm17-ai-tech-news.html"><span class="related-title">Hormuz 재봉쇄로 Brent $95·WTI $87, 이번 주 Tesla(4/22)·SK hynix·Intel(4/23) 삼중 콜 — 월요일 오후 메모</span><span class="related-date">2026-04-20 · 오후 브리핑 · 17:16</span></a></li><li><a href="2026-04-20-pm12-ai-tech-news.html"><span class="related-title">SK hynix HBM4 20~30% 감산설, Samsung이 Rubin 리더로 역전 — 월요일 점심 메모</span><span class="related-date">2026-04-20 · 오전 브리핑 · 12:18</span></a></li><li><a href="2026-04-20-am06-ai-tech-news.html"><span class="related-title">샌디스크 나스닥-100 입성(4/20)·1년 +2,700%, 테슬라 Terafab이 콜의 진짜 초점 — 월요일 새벽 메모</span><span class="related-date">2026-04-20 · 새벽 리포트 · 06:12</span></a></li><li><a href="2026-04-19-pm22-ai-tech-news.html"><span class="related-title">Opus 4.7 벤치 정리, 알리바바 자체 칩 1만 개 데이터센터 — 주말 마감 메모</span><span class="related-date">2026-04-19 · 저녁 마감 · 22:18</span></a></li><li><a href="2026-04-19-pm17-ai-tech-news.html"><span class="related-title">테슬라 실적 3일 전 — 로보택시 3개 도시, 옵티머스 3세대 지연 속 전망</span><span class="related-date">2026-04-19 · 오후 브리핑 · 17:14</span></a></li></ul>
+    <ul class="related-list"><li><a href="2026-04-20-pm17-ai-tech-news.html"><span class="related-title">Hormuz 재봉쇄로 Brent $95·WTI $87, 이번 주 Tesla(4/22)·SK hynix·Intel(4/23) 삼중 콜 — 월요일 오후 메모</span><span class="related-date">2026-04-20 · 오후 브리핑 · 17:16</span></a></li><li><a href="2026-04-20-pm12-ai-tech-news.html"><span class="related-title">SK하이닉스 HBM4 20~30% 감산설, 삼성이 Rubin 리더로 역전 — 월요일 점심 메모</span><span class="related-date">2026-04-20 · 오전 브리핑 · 12:18</span></a></li><li><a href="2026-04-20-am06-ai-tech-news.html"><span class="related-title">샌디스크 나스닥-100 입성(4/20)·1년 +2,700%, 테슬라 Terafab이 콜의 진짜 초점 — 월요일 새벽 메모</span><span class="related-date">2026-04-20 · 새벽 리포트 · 06:12</span></a></li><li><a href="2026-04-19-pm22-ai-tech-news.html"><span class="related-title">Opus 4.7 벤치 정리, 알리바바 자체 칩 1만 개 데이터센터 — 주말 마감 메모</span><span class="related-date">2026-04-19 · 저녁 마감 · 22:18</span></a></li><li><a href="2026-04-19-pm17-ai-tech-news.html"><span class="related-title">테슬라 실적 3일 전 — 로보택시 3개 도시, 옵티머스 3세대 지연 속 전망</span><span class="related-date">2026-04-19 · 오후 브리핑 · 17:14</span></a></li></ul>
 </section>
 </article>
 

diff --git a/posts/2025-12-16-pm22-ai-tech-news.html b/posts/2025-12-16-pm22-ai-tech-news.html
@@ -184,7 +184,7 @@
     
 <section class="related-posts" aria-label="최근 다른 리포트">
     <div class="related-posts-label">최근 다른 리포트</div>
-    <ul class="related-list"><li><a href="2026-04-20-pm17-ai-tech-news.html"><span class="related-title">Hormuz 재봉쇄로 Brent $95·WTI $87, 이번 주 Tesla(4/22)·SK hynix·Intel(4/23) 삼중 콜 — 월요일 오후 메모</span><span class="related-date">2026-04-20 · 오후 브리핑 · 17:16</span></a></li><li><a href="2026-04-20-pm12-ai-tech-news.html"><span class="related-title">SK hynix HBM4 20~30% 감산설, Samsung이 Rubin 리더로 역전 — 월요일 점심 메모</span><span class="related-date">2026-04-20 · 오전 브리핑 · 12:18</span></a></li><li><a href="2026-04-20-am06-ai-tech-news.html"><span class="related-title">샌디스크 나스닥-100 입성(4/20)·1년 +2,700%, 테슬라 Terafab이 콜의 진짜 초점 — 월요일 새벽 메모</span><span class="related-date">2026-04-20 · 새벽 리포트 · 06:12</span></a></li><li><a href="2026-04-19-pm22-ai-tech-news.html"><span class="related-title">Opus 4.7 벤치 정리, 알리바바 자체 칩 1만 개 데이터센터 — 주말 마감 메모</span><span class="related-date">2026-04-19 · 저녁 마감 · 22:18</span></a></li><li><a href="2026-04-19-pm17-ai-tech-news.html"><span class="related-title">테슬라 실적 3일 전 — 로보택시 3개 도시, 옵티머스 3세대 지연 속 전망</span><span class="related-date">2026-04-19 · 오후 브리핑 · 17:14</span></a></li></ul>
+    <ul class="related-list"><li><a href="2026-04-20-pm17-ai-tech-news.html"><span class="related-title">Hormuz 재봉쇄로 Brent $95·WTI $87, 이번 주 Tesla(4/22)·SK hynix·Intel(4/23) 삼중 콜 — 월요일 오후 메모</span><span class="related-date">2026-04-20 · 오후 브리핑 · 17:16</span></a></li><li><a href="2026-04-20-pm12-ai-tech-news.html"><span class="related-title">SK하이닉스 HBM4 20~30% 감산설, 삼성이 Rubin 리더로 역전 — 월요일 점심 메모</span><span class="related-date">2026-04-20 · 오전 브리핑 · 12:18</span></a></li><li><a href="2026-04-20-am06-ai-tech-news.html"><span class="related-title">샌디스크 나스닥-100 입성(4/20)·1년 +2,700%, 테슬라 Terafab이 콜의 진짜 초점 — 월요일 새벽 메모</span><span class="related-date">2026-04-20 · 새벽 리포트 · 06:12</span></a></li><li><a href="2026-04-19-pm22-ai-tech-news.html"><span class="related-title">Opus 4.7 벤치 정리, 알리바바 자체 칩 1만 개 데이터센터 — 주말 마감 메모</span><span class="related-date">2026-04-19 · 저녁 마감 · 22:18</span></a></li><li><a href="2026-04-19-pm17-ai-tech-news.html"><span class="related-title">테슬라 실적 3일 전 — 로보택시 3개 도시, 옵티머스 3세대 지연 속 전망</span><span class="related-date">2026-04-19 · 오후 브리핑 · 17:14</span></a></li></ul>
 </section>
 </article>
 

diff --git a/posts/2025-12-21-pm22-ai-tech-news.html b/posts/2025-12-21-pm22-ai-tech-news.html
@@ -200,7 +200,7 @@
     
 <section class="related-posts" aria-label="최근 다른 리포트">
     <div class="related-posts-label">최근 다른 리포트</div>
-    <ul class="related-list"><li><a href="2026-04-20-pm17-ai-tech-news.html"><span class="related-title">Hormuz 재봉쇄로 Brent $95·WTI $87, 이번 주 Tesla(4/22)·SK hynix·Intel(4/23) 삼중 콜 — 월요일 오후 메모</span><span class="related-date">2026-04-20 · 오후 브리핑 · 17:16</span></a></li><li><a href="2026-04-20-pm12-ai-tech-news.html"><span class="related-title">SK hynix HBM4 20~30% 감산설, Samsung이 Rubin 리더로 역전 — 월요일 점심 메모</span><span class="related-date">2026-04-20 · 오전 브리핑 · 12:18</span></a></li><li><a href="2026-04-20-am06-ai-tech-news.html"><span class="related-title">샌디스크 나스닥-100 입성(4/20)·1년 +2,700%, 테슬라 Terafab이 콜의 진짜 초점 — 월요일 새벽 메모</span><span class="related-date">2026-04-20 · 새벽 리포트 · 06:12</span></a></li><li><a href="2026-04-19-pm22-ai-tech-news.html"><span class="related-title">Opus 4.7 벤치 정리, 알리바바 자체 칩 1만 개 데이터센터 — 주말 마감 메모</span><span class="related-date">2026-04-19 · 저녁 마감 · 22:18</span></a></li><li><a href="2026-04-19-pm17-ai-tech-news.html"><span class="related-title">테슬라 실적 3일 전 — 로보택시 3개 도시, 옵티머스 3세대 지연 속 전망</span><span class="related-date">2026-04-19 · 오후 브리핑 · 17:14</span></a></li></ul>
+    <ul class="related-list"><li><a href="2026-04-20-pm17-ai-tech-news.html"><span class="related-title">Hormuz 재봉쇄로 Brent $95·WTI $87, 이번 주 Tesla(4/22)·SK hynix·Intel(4/23) 삼중 콜 — 월요일 오후 메모</span><span class="related-date">2026-04-20 · 오후 브리핑 · 17:16</span></a></li><li><a href="2026-04-20-pm12-ai-tech-news.html"><span class="related-title">SK하이닉스 HBM4 20~30% 감산설, 삼성이 Rubin 리더로 역전 — 월요일 점심 메모</span><span class="related-date">2026-04-20 · 오전 브리핑 · 12:18</span></a></li><li><a href="2026-04-20-am06-ai-tech-news.html"><span class="related-title">샌디스크 나스닥-100 입성(4/20)·1년 +2,700%, 테슬라 Terafab이 콜의 진짜 초점 — 월요일 새벽 메모</span><span class="related-date">2026-04-20 · 새벽 리포트 · 06:12</span></a></li><li><a href="2026-04-19-pm22-ai-tech-news.html"><span class="related-title">Opus 4.7 벤치 정리, 알리바바 자체 칩 1만 개 데이터센터 — 주말 마감 메모</span><span class="related-date">2026-04-19 · 저녁 마감 · 22:18</span></a></li><li><a href="2026-04-19-pm17-ai-tech-news.html"><span class="related-title">테슬라 실적 3일 전 — 로보택시 3개 도시, 옵티머스 3세대 지연 속 전망</span><span class="related-date">2026-04-19 · 오후 브리핑 · 17:14</span></a></li></ul>
 </section>
 </article>
 

diff --git a/posts/2025-12-23-pm21-ai-tech-news.html b/posts/2025-12-23-pm21-ai-tech-news.html
@@ -192,7 +192,7 @@
     
 <section class="related-posts" aria-label="최근 다른 리포트">
     <div class="related-posts-label">최근 다른 리포트</div>
-    <ul class="related-list"><li><a href="2026-04-20-pm17-ai-tech-news.html"><span class="related-title">Hormuz 재봉쇄로 Brent $95·WTI $87, 이번 주 Tesla(4/22)·SK hynix·Intel(4/23) 삼중 콜 — 월요일 오후 메모</span><span class="related-date">2026-04-20 · 오후 브리핑 · 17:16</span></a></li><li><a href="2026-04-20-pm12-ai-tech-news.html"><span class="related-title">SK hynix HBM4 20~30% 감산설, Samsung이 Rubin 리더로 역전 — 월요일 점심 메모</span><span class="related-date">2026-04-20 · 오전 브리핑 · 12:18</span></a></li><li><a href="2026-04-20-am06-ai-tech-news.html"><span class="related-title">샌디스크 나스닥-100 입성(4/20)·1년 +2,700%, 테슬라 Terafab이 콜의 진짜 초점 — 월요일 새벽 메모</span><span class="related-date">2026-04-20 · 새벽 리포트 · 06:12</span></a></li><li><a href="2026-04-19-pm22-ai-tech-news.html"><span class="related-title">Opus 4.7 벤치 정리, 알리바바 자체 칩 1만 개 데이터센터 — 주말 마감 메모</span><span class="related-date">2026-04-19 · 저녁 마감 · 22:18</span></a></li><li><a href="2026-04-19-pm17-ai-tech-news.html"><span class="related-title">테슬라 실적 3일 전 — 로보택시 3개 도시, 옵티머스 3세대 지연 속 전망</span><span class="related-date">2026-04-19 · 오후 브리핑 · 17:14</span></a></li></ul>
+    <ul class="related-list"><li><a href="2026-04-20-pm17-ai-tech-news.html"><span class="related-title">Hormuz 재봉쇄로 Brent $95·WTI $87, 이번 주 Tesla(4/22)·SK hynix·Intel(4/23) 삼중 콜 — 월요일 오후 메모</span><span class="related-date">2026-04-20 · 오후 브리핑 · 17:16</span></a></li><li><a href="2026-04-20-pm12-ai-tech-news.html"><span class="related-title">SK하이닉스 HBM4 20~30% 감산설, 삼성이 Rubin 리더로 역전 — 월요일 점심 메모</span><span class="related-date">2026-04-20 · 오전 브리핑 · 12:18</span></a></li><li><a href="2026-04-20-am06-ai-tech-news.html"><span class="related-title">샌디스크 나스닥-100 입성(4/20)·1년 +2,700%, 테슬라 Terafab이 콜의 진짜 초점 — 월요일 새벽 메모</span><span class="related-date">2026-04-20 · 새벽 리포트 · 06:12</span></a></li><li><a href="2026-04-19-pm22-ai-tech-news.html"><span class="related-title">Opus 4.7 벤치 정리, 알리바바 자체 칩 1만 개 데이터센터 — 주말 마감 메모</span><span class="related-date">2026-04-19 · 저녁 마감 · 22:18</span></a></li><li><a href="2026-04-19-pm17-ai-tech-news.html"><span class="related-title">테슬라 실적 3일 전 — 로보택시 3개 도시, 옵티머스 3세대 지연 속 전망</span><span class="related-date">2026-04-19 · 오후 브리핑 · 17:14</span></a></li></ul>
 </section>
 </article>
 

diff --git a/posts/2025-12-31-pm22-ai-tech-news.html b/posts/2025-12-31-pm22-ai-tech-news.html
@@ -248,7 +248,7 @@
     
 <section class="related-posts" aria-label="최근 다른 리포트">
     <div class="related-posts-label">최근 다른 리포트</div>
-    <ul class="related-list"><li><a href="2026-04-20-pm17-ai-tech-news.html"><span class="related-title">Hormuz 재봉쇄로 Brent $95·WTI $87, 이번 주 Tesla(4/22)·SK hynix·Intel(4/23) 삼중 콜 — 월요일 오후 메모</span><span class="related-date">2026-04-20 · 오후 브리핑 · 17:16</span></a></li><li><a href="2026-04-20-pm12-ai-tech-news.html"><span class="related-title">SK hynix HBM4 20~30% 감산설, Samsung이 Rubin 리더로 역전 — 월요일 점심 메모</span><span class="related-date">2026-04-20 · 오전 브리핑 · 12:18</span></a></li><li><a href="2026-04-20-am06-ai-tech-news.html"><span class="related-title">샌디스크 나스닥-100 입성(4/20)·1년 +2,700%, 테슬라 Terafab이 콜의 진짜 초점 — 월요일 새벽 메모</span><span class="related-date">2026-04-20 · 새벽 리포트 · 06:12</span></a></li><li><a href="2026-04-19-pm22-ai-tech-news.html"><span class="related-title">Opus 4.7 벤치 정리, 알리바바 자체 칩 1만 개 데이터센터 — 주말 마감 메모</span><span class="related-date">2026-04-19 · 저녁 마감 · 22:18</span></a></li><li><a href="2026-04-19-pm17-ai-tech-news.html"><span class="related-title">테슬라 실적 3일 전 — 로보택시 3개 도시, 옵티머스 3세대 지연 속 전망</span><span class="related-date">2026-04-19 · 오후 브리핑 · 17:14</span></a></li></ul>
+    <ul class="related-list"><li><a href="2026-04-20-pm17-ai-tech-news.html"><span class="related-title">Hormuz 재봉쇄로 Brent $95·WTI $87, 이번 주 Tesla(4/22)·SK hynix·Intel(4/23) 삼중 콜 — 월요일 오후 메모</span><span class="related-date">2026-04-20 · 오후 브리핑 · 17:16</span></a></li><li><a href="2026-04-20-pm12-ai-tech-news.html"><span class="related-title">SK하이닉스 HBM4 20~30% 감산설, 삼성이 Rubin 리더로 역전 — 월요일 점심 메모</span><span class="related-date">2026-04-20 · 오전 브리핑 · 12:18</span></a></li><li><a href="2026-04-20-am06-ai-tech-news.html"><span class="related-title">샌디스크 나스닥-100 입성(4/20)·1년 +2,700%, 테슬라 Terafab이 콜의 진짜 초점 — 월요일 새벽 메모</span><span class="related-date">2026-04-20 · 새벽 리포트 · 06:12</span></a></li><li><a href="2026-04-19-pm22-ai-tech-news.html"><span class="related-title">Opus 4.7 벤치 정리, 알리바바 자체 칩 1만 개 데이터센터 — 주말 마감 메모</span><span class="related-date">2026-04-19 · 저녁 마감 · 22:18</span></a></li><li><a href="2026-04-19-pm17-ai-tech-news.html"><span class="related-title">테슬라 실적 3일 전 — 로보택시 3개 도시, 옵티머스 3세대 지연 속 전망</span><span class="related-date">2026-04-19 · 오후 브리핑 · 17:14</span></a></li></ul>
 </section>
 </article>
 

diff --git a/posts/2026-01-03-pm21-ai-tech-news.html b/posts/2026-01-03-pm21-ai-tech-news.html
@@ -186,7 +186,7 @@
     
 <section class="related-posts" aria-label="최근 다른 리포트">
     <div class="related-posts-label">최근 다른 리포트</div>
-    <ul class="related-list"><li><a href="2026-04-20-pm17-ai-tech-news.html"><span class="related-title">Hormuz 재봉쇄로 Brent $95·WTI $87, 이번 주 Tesla(4/22)·SK hynix·Intel(4/23) 삼중 콜 — 월요일 오후 메모</span><span class="related-date">2026-04-20 · 오후 브리핑 · 17:16</span></a></li><li><a href="2026-04-20-pm12-ai-tech-news.html"><span class="related-title">SK hynix HBM4 20~30% 감산설, Samsung이 Rubin 리더로 역전 — 월요일 점심 메모</span><span class="related-date">2026-04-20 · 오전 브리핑 · 12:18</span></a></li><li><a href="2026-04-20-am06-ai-tech-news.html"><span class="related-title">샌디스크 나스닥-100 입성(4/20)·1년 +2,700%, 테슬라 Terafab이 콜의 진짜 초점 — 월요일 새벽 메모</span><span class="related-date">2026-04-20 · 새벽 리포트 · 06:12</span></a></li><li><a href="2026-04-19-pm22-ai-tech-news.html"><span class="related-title">Opus 4.7 벤치 정리, 알리바바 자체 칩 1만 개 데이터센터 — 주말 마감 메모</span><span class="related-date">2026-04-19 · 저녁 마감 · 22:18</span></a></li><li><a href="2026-04-19-pm17-ai-tech-news.html"><span class="related-title">테슬라 실적 3일 전 — 로보택시 3개 도시, 옵티머스 3세대 지연 속 전망</span><span class="related-date">2026-04-19 · 오후 브리핑 · 17:14</span></a></li></ul>
+    <ul class="related-list"><li><a href="2026-04-20-pm17-ai-tech-news.html"><span class="related-title">Hormuz 재봉쇄로 Brent $95·WTI $87, 이번 주 Tesla(4/22)·SK hynix·Intel(4/23) 삼중 콜 — 월요일 오후 메모</span><span class="related-date">2026-04-20 · 오후 브리핑 · 17:16</span></a></li><li><a href="2026-04-20-pm12-ai-tech-news.html"><span class="related-title">SK하이닉스 HBM4 20~30% 감산설, 삼성이 Rubin 리더로 역전 — 월요일 점심 메모</span><span class="related-date">2026-04-20 · 오전 브리핑 · 12:18</span></a></li><li><a href="2026-04-20-am06-ai-tech-news.html"><span class="related-title">샌디스크 나스닥-100 입성(4/20)·1년 +2,700%, 테슬라 Terafab이 콜의 진짜 초점 — 월요일 새벽 메모</span><span class="related-date">2026-04-20 · 새벽 리포트 · 06:12</span></a></li><li><a href="2026-04-19-pm22-ai-tech-news.html"><span class="related-title">Opus 4.7 벤치 정리, 알리바바 자체 칩 1만 개 데이터센터 — 주말 마감 메모</span><span class="related-date">2026-04-19 · 저녁 마감 · 22:18</span></a></li><li><a href="2026-04-19-pm17-ai-tech-news.html"><span class="related-title">테슬라 실적 3일 전 — 로보택시 3개 도시, 옵티머스 3세대 지연 속 전망</span><span class="related-date">2026-04-19 · 오후 브리핑 · 17:14</span></a></li></ul>
 </section>
 </article>
 
